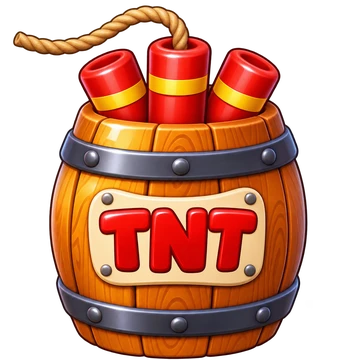
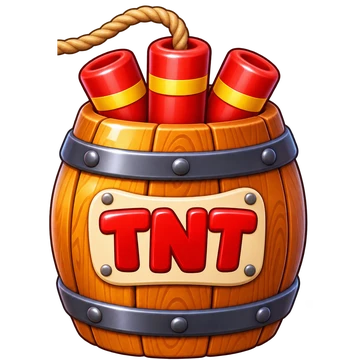
Hardcore: Zündschnur passt nahtlos ans Fass, Asche-Linie entfernt
Claude-Session: https://claude.ai/code/session_015F4ypguKCiePf7SvTB76p6

Changed region(s): [[0.0306, 0.0917, 0.1833, 0.1528]]

diff --git a/hardcore.js b/hardcore.js
@@ -95,8 +95,8 @@ function hcZuendschnur(){
   const p = Math.min(1, Math.max(0, 1 - HC.rest/HC_SEK));
   const zustand = HC.vorbei ? (HC.grund==="zeit" ? "weg" : "aus") : (HC.pick!=null ? "halt" : "");
   return `<div class="hczuend ${zustand} ${HC.rest<=5&&!HC.vorbei?"knapp":""}" id="hcZuend" style="--p:${p.toFixed(4)}" role="img" aria-label="Zündschnur: noch ${Math.ceil(HC.rest)} Sekunden">
-    <div class="hcz-bahn"><div class="hcz-asche"></div><div class="hcz-seil"></div><div class="hcz-funke"><i></i><i></i><i></i><i></i><i></i></div><div class="hcz-info"><span class="hcz-serie"><img src="img/grafik/diverse/flamme.webp?v=2" alt=""><b>${HC.n}</b> <span class="hcz-w">${HC.n===1?"richtige Antwort":"richtige Antworten"}</span><span class="hcz-k">richtig</span></span><span class="hcz-zeit"><img src="img/grafik/diverse/sanduhr.webp?v=2" alt=""><b id="hcSekZ">${Math.ceil(HC.rest)}</b> s</span></div></div>
-    <div class="hcz-fass"><img class="hcz-f1" src="img/grafik/hardcore/fass.webp?v=1" alt=""><img class="hcz-f2" src="img/grafik/hardcore/fass-boom.webp?v=1" alt=""></div>
+    <div class="hcz-bahn"><div class="hcz-seil"></div><div class="hcz-funke"><i></i><i></i><i></i><i></i><i></i></div><div class="hcz-info"><span class="hcz-serie"><img src="img/grafik/diverse/flamme.webp?v=2" alt=""><b>${HC.n}</b> <span class="hcz-w">${HC.n===1?"richtige Antwort":"richtige Antworten"}</span><span class="hcz-k">richtig</span></span><span class="hcz-zeit"><img src="img/grafik/diverse/sanduhr.webp?v=2" alt=""><b id="hcSekZ">${Math.ceil(HC.rest)}</b> s</span></div></div>
+    <div class="hcz-fass"><img class="hcz-f1" src="img/grafik/hardcore/fass.webp?v=2" alt=""><img class="hcz-f2" src="img/grafik/hardcore/fass-boom.webp?v=1" alt=""></div>
 
   </div>`;
 }
@@ -139,11 +139,11 @@ function hcInfo(){
   hcStop();
   const best = hcBest(S.profil);
   $("#app").innerHTML = `<div class="hcwrap">
-    <div class="pagehead hcpagehead hc-kopf2"><img class="hc-titel" src="img/grafik/hardcore/titel.webp?v=1" alt="Hardcore"><h1 class="sr-only">Hardcore</h1><p class="help">Wie weit kommst du ohne einen einzigen Fehler?</p><img class="hc-kfass" src="img/grafik/hardcore/fass.webp?v=1" alt=""></div>
+    <div class="pagehead hcpagehead hc-kopf2"><img class="hc-titel" src="img/grafik/hardcore/titel.webp?v=1" alt="Hardcore"><h1 class="sr-only">Hardcore</h1><p class="help">Wie weit kommst du ohne einen einzigen Fehler?</p><img class="hc-kfass" src="img/grafik/hardcore/fass.webp?v=2" alt=""></div>
     <div class="card hcregeln">
       <div><b><img class="hc-ic" src="img/grafik/ic-globe.webp" alt="">Alles gemischt</b><span>Fragen aus allen Themen. Am Anfang leicht, dann immer schwieriger: Entdecker, Könner und zuletzt Profis.</span></div>
       <div><b><img class="hc-ic" src="img/grafik/hardcore/unendlich.webp?v=1" alt="">Ohne Ende</b><span>Es geht so lange weiter, bis du eine Frage falsch beantwortest.</span></div>
-      <div><b><img class="hc-ic" src="img/grafik/hardcore/fass.webp?v=1" alt="">45 Sekunden</b><span>Pro Frage brennt die Zündschnur 45 Sekunden lang. Erreicht der Funke das Fass, ist das Spiel vorbei.</span></div>
+      <div><b><img class="hc-ic" src="img/grafik/hardcore/fass.webp?v=2" alt="">45 Sekunden</b><span>Pro Frage brennt die Zündschnur 45 Sekunden lang. Erreicht der Funke das Fass, ist das Spiel vorbei.</span></div>
       <div><b><img class="hc-ic" src="img/grafik/diverse/pokal.webp?v=2" alt="">Eigene Rangliste</b><span>Es zählt deine längste Serie. Bei Gleichstand gewinnt, wer schneller war.</span></div>
     </div>
     ${S.profil ? `<p class="hcbest" style="text-align:center">Dein Rekord: <b>${best}</b> ${best===1?"Frage":"Fragen"}</p>` : `<p class="hcbest" style="text-align:center">Ohne Profil kannst du spielen, kommst aber nicht in die Rangliste.</p>`}
@@ -255,11 +255,11 @@ css.textContent = `
 .hcbalken i{display:block;height:100%;background:linear-gradient(90deg,#E0312B,#F2A000);border-radius:999px;transition:width .1s linear}
 .hcmeta{margin:0 0 6px;opacity:.7;font-size:.9rem}
 #hcUhr{display:none}
-.hczuend{--p:0;--fh:130px;--sy:15px;--sd:8px;position:relative;display:flex;align-items:flex-start;height:var(--fh);margin:2px 0 12px;padding:0 4px}
+.hczuend{--p:0;--fh:130px;--sy:calc(var(--fh) * .1312);--sd:calc(var(--fh) * .046);position:relative;display:flex;align-items:flex-start;height:var(--fh);margin:2px 0 12px;padding:0 4px}
 .hcz-bahn{position:relative;flex:1 1 auto;height:var(--fh);min-width:0;z-index:1}
 .hcz-seil,.hcz-asche{position:absolute;top:calc(var(--sy) - var(--sd) / 2);height:var(--sd)}
 .hcz-asche{left:0;right:0;top:calc(var(--sy) - 1px);height:3px;border-radius:2px;background:repeating-linear-gradient(90deg,rgba(70,60,70,.45) 0 6px,transparent 6px 11px)}
-.hcz-seil{left:calc(var(--p) * 100%);right:-10px;background:url("img/grafik/hardcore/zuendschnur.webp?v=1") left center / auto 100% repeat-x;filter:drop-shadow(0 2px 2px rgba(0,0,0,.3))}
+.hcz-seil{left:calc(var(--p) * 100%);right:calc(var(--fh) * -.16 - 3px);background:url("img/grafik/hardcore/zuendschnur.webp?v=1") left center / auto 100% repeat-x;filter:brightness(.93) drop-shadow(0 2px 2px rgba(0,0,0,.25))}
 .hcz-funke{position:absolute;top:var(--sy);left:calc(var(--p) * 100%);width:0;height:0;z-index:2}
 .hcz-funke::before{content:"";position:absolute;left:-22px;top:-22px;width:44px;height:44px;background:url("img/grafik/hardcore/funke.webp?v=1") center/contain no-repeat;animation:hczFlacker .14s ease-in-out infinite alternate;filter:drop-shadow(0 0 8px rgba(255,150,30,.9))}
 .hcz-funke i{position:absolute;left:-2px;top:-2px;width:4px;height:4px;border-radius:50%;background:#FFE27A;box-shadow:0 0 6px #FF9A1F;animation:hczSpritz .55s linear infinite}
@@ -291,7 +291,7 @@ css.textContent = `
 .hcz-info{flex-wrap:nowrap}
 .hczuend.knapp .hcz-zeit b{color:#E0312B;animation:hcpuls .5s ease-in-out infinite alternate;display:inline-block}
 .hcz-asche{background:repeating-linear-gradient(90deg,rgba(70,60,70,.3) 0 6px,transparent 6px 11px)}
-@media (max-width:600px){.hczuend{--fh:96px;--sy:11px;--sd:6px;padding:10px 12px 10px 14px;border-radius:20px}.hcz-info{bottom:0;gap:6px}.hcz-info>span{font-size:.8rem;gap:5px}.hcz-info img{width:24px;height:24px}.hcz-serie b{font-size:1.4rem}.hcz-zeit{padding:3px 11px 3px 6px}.hcz-zeit b{font-size:1.2rem}.hcz-w{display:none}.hcz-k{display:inline}}
+@media (max-width:600px){.hczuend{--fh:104px;padding:10px 12px 10px 14px;border-radius:20px}.hcz-info{bottom:0;gap:6px}.hcz-info>span{font-size:.8rem;gap:5px}.hcz-info img{width:24px;height:24px}.hcz-serie b{font-size:1.4rem}.hcz-zeit{padding:3px 11px 3px 6px}.hcz-zeit b{font-size:1.2rem}.hcz-w{display:none}.hcz-k{display:inline}}
 @media (prefers-reduced-motion:reduce){.hcz-funke::before,.hcz-funke i,.hczuend.knapp .hcz-fass .hcz-f1{animation:none}}
 .hcende{text-align:center;margin-bottom:16px;border:3px solid #E0312B}
 .hcgross{font-family:"Bricolage Grotesque",system-ui,sans-serif;font-size:2rem;font-weight:800;margin-bottom:6px}

diff --git a/index.html b/index.html
@@ -75,7 +75,7 @@ html.ep-boot #epBoot{display:flex;position:fixed;inset:0;z-index:99999;flex-dire
 <link rel="preload" as="image" href="img/kinder.webp">
 <script>/* Versionsprüfung: Ist diese Seite älter als die veröffentlichte Version (alter Speicher, Browser-Cache,
    Homescreen-App), alles Alte löschen und einmal frisch laden. Höchstens einmal pro 10 Minuten. */
-window.EP_BUILD="ep-2026-11-04-10";
+window.EP_BUILD="ep-2026-11-04-11";
 (function(){ try{
   if(window.claude || window.EP_NATIV || !/^https?:$/.test(location.protocol)){ window.__epVer="ok"; return; }   /* App (alles eingebaut) und Vorschau: keine Prüfung */
   /* Prüft, ob auf dem Server eine neuere Version liegt. Läuft beim Laden UND jedes Mal, wenn die Seite

diff --git a/sw.js b/sw.js
@@ -2,7 +2,7 @@
    Sorgt für schnelle Wiederholungsbesuche und Offline-Nutzung.
    Bei jeder Änderung an der App-Hülle VERSION hochzählen, damit alte Caches gelöscht werden. */
 
-const VERSION = "ep-2026-11-04-10";
+const VERSION = "ep-2026-11-04-11";
 const CACHE_HUELLE = VERSION + "-huelle";   // App-Hülle, Code, Daten
 // Bilder in einem festen Speicher: überlebt Updates (nur bilder/, img/, flags/), wird täglich still geprüft
 const CACHE_BILDER = "ep-bilder";

diff --git a/CLAUDE.md b/CLAUDE.md
@@ -34,6 +34,7 @@ _(leer)_
 - 21.10. 12:35, Sitzung «Hauptseite»: Danke! PR #11 und #12 sind bei mir übernommen. Ich lasse die Qeels-Blöcke in `index.html` und `qeels/` dir und melde mich hier, bevor ich dort etwas ändere.
 
 ## Erledigt (neueste oben)
+- 04.11. Sitzung «Hauptseite»: Hardcore: Zündschnur geht nahtlos ins Seil des Fasses über. Am Fass ist das lose Seilende links abgeschnitten (`fass.webp?v=2`), die Schnur liegt genau auf Höhe und in Dicke des Fass-Seils (`--sy`, `--sd`, `right` aus `--fh` gerechnet) und endet unter dem Fass. Die gestrichelte Asche-Linie links ist weg. Kein App-Bau. Version ep-2026-11-04-11.
 - 04.11. Sitzung «Hauptseite»: Hardcore mit Dejans Bildern: Funke der Zündschnur `img/grafik/hardcore/funke.webp` (flackert und dreht), Hardcore-Startseite mit Schriftzug `titel.webp` und schwebendem Fass, Regeln mit Symbolen (Globus, `unendlich.webp`, Fass, Pokal) in 4 Spalten, Ende-Karte mit Explosion bzw. Funke statt Emoji (`hardcore.js`). Kein App-Bau. Version ep-2026-11-04-10.
 - 04.11. Sitzung «Hauptseite»: Hardcore: Zündschnur, Serie und Zeit in einer weissen Karte (`.hczuend`): Schnur oben bis zum Fass, darunter links die Serie mit Flamme, rechts die Zeit mit Sanduhr (`.hcz-info`); die alte Kopfzeile `.hckopf` ist ausgeblendet. Am Handy «N richtig». Kein App-Bau. Version ep-2026-11-04-09.
 - 04.11. Sitzung «Hauptseite»: Hardcore: 45 statt 30 Sekunden pro Frage (`HC_SEK` in `hardcore.js`, Texte angepasst). Zündschnur mit Dejans Bildern aus ChatGPT: Fass `img/grafik/hardcore/fass.webp`, Explosion `fass-boom.webp`, Seil `zuendschnur.webp` (nahtlos wiederholbar, 11 Windungen); die Schnur endet genau am Seil des Fasses (`--sy`). Kein App-Bau. Version ep-2026-11-04-08.
